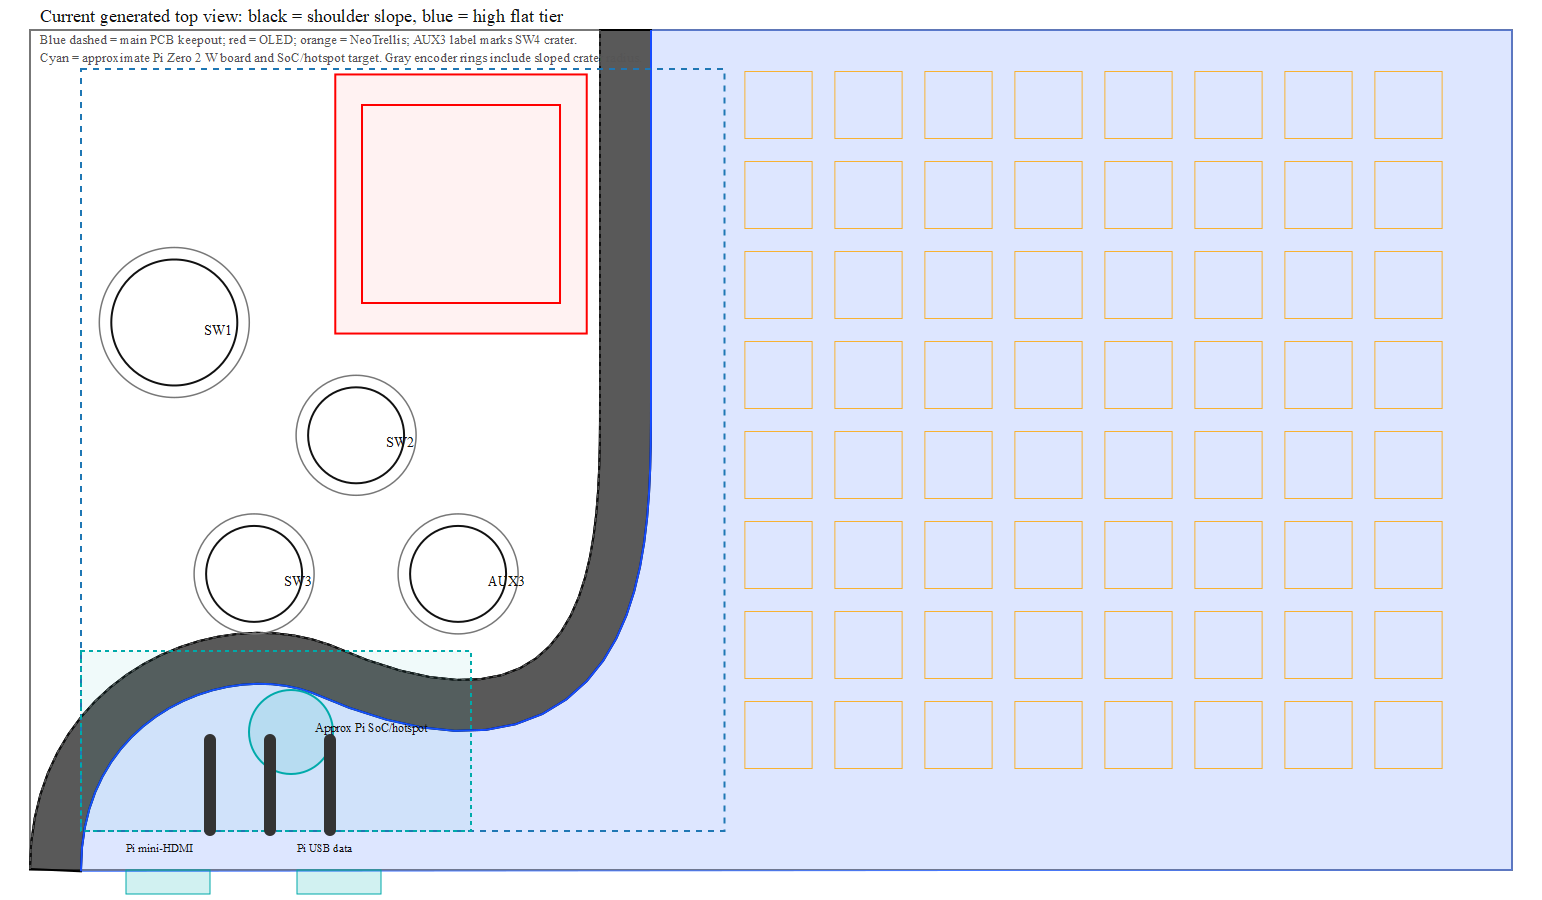
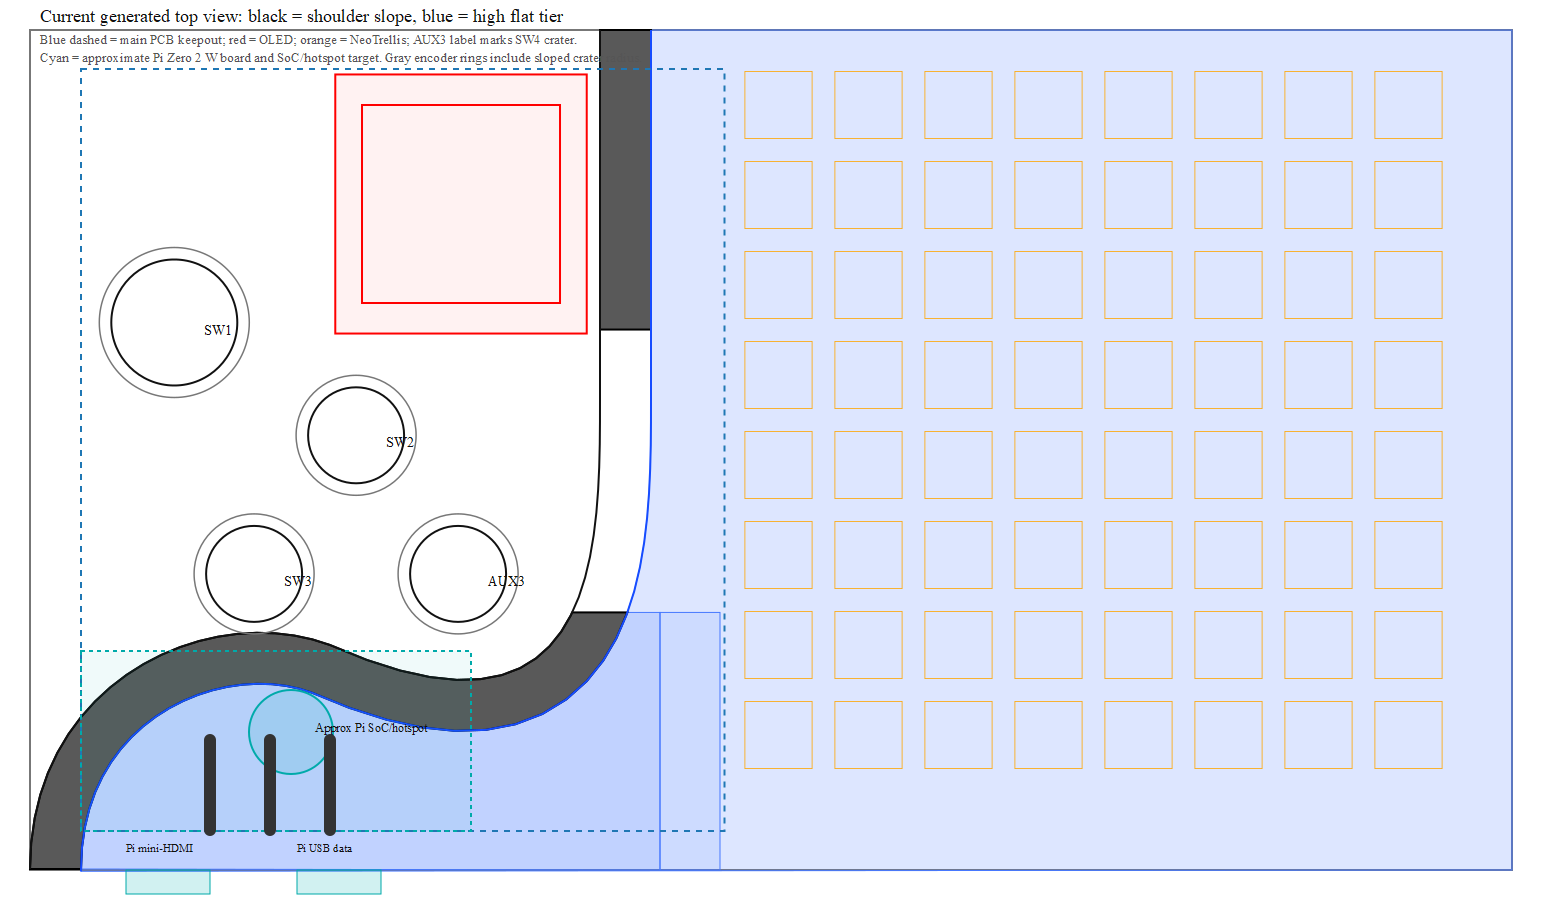
refine enclosure wave geometry

Changed region(s): [[0.0311, 0.3422, 0.4358, 0.9956]]

diff --git a/hardware/enclosure/generate_two_level_enclosure_cadquery.py b/hardware/enclosure/generate_two_level_enclosure_cadquery.py
@@ -11,9 +11,7 @@ from wave_guidance import (
     SOUTH_ROOF_LOW_WALL_BAND,
     SOUTH_SHOULDER_PLAN_WIDTH,
     load_guidance_slots,
-    smootherstep,
     south_edge_samples,
-    south_roof_outer_samples,
 )
 
 
@@ -28,11 +26,15 @@ HIGH_Z = 26.0
 UNDERSIDE_Z = 9.0
 HIGH_UNDERSIDE_Z = 23.0
 EXTENDED_SLOPE_RIGHT_X = 115.0
-SLOPE_CURVE_START_Y = 69.0
 NEOKEY_PANEL_Y_OFFSET = 2.0
 NEOKEY_CAP_RELIEF_BOTTOM_Z = 16.0
 NEOKEY_SEAT_BOTTOM_Z = UNDERSIDE_Z
 NEOKEY_SEAT_OVERLAP = 3.0
+LOWER_WAVE_HEIGHT_SCALE = 0.5
+LOWER_WAVE_HIGH_UNDERSIDE_Z = UNDERSIDE_Z + (HIGH_UNDERSIDE_Z - UNDERSIDE_Z) * LOWER_WAVE_HEIGHT_SCALE
+LOWER_WAVE_HIGH_Z = LOW_Z + (HIGH_Z - LOW_Z) * LOWER_WAVE_HEIGHT_SCALE
+LOWER_TO_TIER2_RAMP_START_X = 105.0
+LOWER_TO_TIER2_RAMP_END_X = 115.0
 
 def x_at_y(points: list[tuple[float, float]], y: float) -> float:
     sorted_points = sorted(points, key=lambda point: point[1])
@@ -46,40 +48,14 @@ def x_at_y(points: list[tuple[float, float]], y: float) -> float:
     return sorted_points[-1][0]
 
 
-def deck_boundary_x(y: float) -> float:
-    _, low = south_edge_samples()
-    return x_at_y(low, y)
-
-
-def original_deck_boundary_x(y: float) -> float:
-    vertical_x = 90.2
-    curve_start_y = 69.0
-    bottom_x = 50.0
-    if y >= curve_start_y:
-        return vertical_x
-    return bottom_x + (vertical_x - bottom_x) * smootherstep(y / curve_start_y)
-
-
-def shoulder_width_at_y(y: float) -> float:
-    return shoulder_right_x(y) - deck_boundary_x(y)
-
-
-def legacy_shoulder_width_at_y(y: float) -> float:
-    if y >= 69.0:
-        return 2.4
-    return 2.4 + 14.6 * (1.0 - smootherstep(y / 69.0))
-
-
-def shoulder_right_x(y: float) -> float:
-    high, _ = south_edge_samples()
-    return x_at_y(high, y)
-
-
-def original_shoulder_right_x(y: float) -> float:
-    legacy_right = original_deck_boundary_x(y) + legacy_shoulder_width_at_y(y)
-    if y >= SLOPE_CURVE_START_Y:
-        return EXTENDED_SLOPE_RIGHT_X
-    return legacy_right + (EXTENDED_SLOPE_RIGHT_X - legacy_right) * smootherstep(y / SLOPE_CURVE_START_Y)
+def first_y_at_x(points: list[tuple[float, float]], x: float) -> float:
+    sorted_points = sorted(points, key=lambda point: point[1])
+    for (x0, y0), (x1, y1) in zip(sorted_points, sorted_points[1:]):
+        if (x0 <= x <= x1) or (x1 <= x <= x0):
+            if x1 == x0:
+                return y1
+            return y0 + (y1 - y0) * ((x - x0) / (x1 - x0))
+    return sorted_points[-1][1]
 
 
 def rounded_plate(width: float, depth: float, radius: float, z0: float, thickness: float) -> cq.Workplane:
@@ -90,6 +66,26 @@ def rounded_plate(width: float, depth: float, radius: float, z0: float, thicknes
         .extrude(thickness)
         .translate((width / 2.0, depth / 2.0, z0))
     )
+
+
+def y_band_prism(width: float, y0: float, y1: float, margin: float, z_height: float) -> cq.Workplane:
+    points = [
+        (-margin, y0),
+        (-margin, y1),
+        (width + margin, y1),
+        (width + margin, y0),
+    ]
+    return cq.Workplane("XY").polyline(points).close().extrude(z_height).translate((0, 0, -1))
+
+
+def x_band_prism(x0: float, x1: float, depth: float, margin: float, z_height: float) -> cq.Workplane:
+    points = [
+        (x0, -margin),
+        (x0, depth + margin),
+        (x1, depth + margin),
+        (x1, -margin),
+    ]
+    return cq.Workplane("XY").polyline(points).close().extrude(z_height).translate((0, 0, -1))
 
 
 def right_region_prism(width: float, depth: float, margin: float, z_height: float) -> cq.Workplane:
@@ -112,13 +108,42 @@ def left_region_prism(width: float, depth: float, margin: float, z_height: float
     return cq.Workplane("XY").polyline(points).close().extrude(z_height).translate((0, 0, -1))
 
 
-def shoulder_loft(depth: float) -> cq.Workplane:
+def curve_pair_at_y(
+    low: list[tuple[float, float]], high: list[tuple[float, float]], y: float
+) -> tuple[tuple[float, float], tuple[float, float]]:
+    return (x_at_y(low, y), y), (x_at_y(high, y), y)
+
+
+def trimmed_curve_pairs(
+    low: list[tuple[float, float]], high: list[tuple[float, float]], y0: float, y1: float
+) -> list[tuple[tuple[float, float], tuple[float, float]]]:
+    pairs = []
+    if y0 <= low[-1][1] and y1 >= low[0][1]:
+        start_y = max(y0, low[0][1])
+        end_y = min(y1, low[-1][1])
+        pairs.append(curve_pair_at_y(low, high, start_y))
+        pairs.extend(
+            (low_point, high_point)
+            for low_point, high_point in zip(low, high)
+            if start_y < low_point[1] < end_y
+        )
+        pairs.append(curve_pair_at_y(low, high, end_y))
+    return pairs
+
+
+def shoulder_loft(y0: float, y1: float, height_scale: float = 1.0) -> cq.Workplane:
     high, low = south_edge_samples()
-    wires = [shoulder_profile_wire(low_point, high_point) for low_point, high_point in zip(low, high)]
+    curve_pairs = trimmed_curve_pairs(low, high, y0, y1)
+    wires = [
+        shoulder_profile_wire(low_point, high_point, height_scale)
+        for low_point, high_point in curve_pairs
+    ]
     return cq.Workplane("XY").add(cq.Solid.makeLoft(wires, ruled=True))
 
 
-def shoulder_profile_wire(low: tuple[float, float], high: tuple[float, float]) -> cq.Wire:
+def shoulder_profile_wire(
+    low: tuple[float, float], high: tuple[float, float], height_scale: float = 1.0
+) -> cq.Wire:
     low_x, low_y = low
     high_x, high_y = high
     top_points = []
@@ -129,17 +154,48 @@ def shoulder_profile_wire(low: tuple[float, float], high: tuple[float, float]) -
         eased = (1.0 - (1.0 - t) * (1.0 - t)) ** 0.5
         x = low_x + (high_x - low_x) * t
         y = low_y + (high_y - low_y) * t
-        z = LOW_Z + (HIGH_Z - LOW_Z) * eased
+        z = LOW_Z + (HIGH_Z - LOW_Z) * height_scale * eased
         top_points.append(cq.Vector(x, y, z))
         if t <= bottom_band_t:
             bottom_z = UNDERSIDE_Z
         else:
             bottom_t = (t - bottom_band_t) / (1.0 - bottom_band_t)
             bottom_eased = (1.0 - (1.0 - bottom_t) * (1.0 - bottom_t)) ** 0.5
-            bottom_z = UNDERSIDE_Z + (HIGH_UNDERSIDE_Z - UNDERSIDE_Z) * bottom_eased
+            bottom_z = (
+                UNDERSIDE_Z
+                + (HIGH_UNDERSIDE_Z - UNDERSIDE_Z) * height_scale * bottom_eased
+            )
         bottom_points.append(cq.Vector(x, y, bottom_z))
     points = [*top_points, *reversed(bottom_points), top_points[0]]
     return cq.Wire.makePolygon(points)
+
+
+def quarter_circle_ease(t: float) -> float:
+    t = max(0.0, min(1.0, t))
+    return 1.0 - (1.0 - t * t) ** 0.5
+
+
+def east_wave_ramp_loft(y0: float, y1: float) -> cq.Workplane:
+    wires = []
+    samples = 16
+    for index in range(samples + 1):
+        t = index / samples
+        eased = quarter_circle_ease(t)
+        top_z = LOWER_WAVE_HIGH_Z + (HIGH_Z - LOWER_WAVE_HIGH_Z) * eased
+        bottom_z = LOWER_WAVE_HIGH_UNDERSIDE_Z + (HIGH_UNDERSIDE_Z - LOWER_WAVE_HIGH_UNDERSIDE_Z) * eased
+        x = LOWER_TO_TIER2_RAMP_START_X + (LOWER_TO_TIER2_RAMP_END_X - LOWER_TO_TIER2_RAMP_START_X) * t
+        wires.append(
+            cq.Wire.makePolygon(
+                [
+                    cq.Vector(x, y0, top_z),
+                    cq.Vector(x, y1, top_z),
+                    cq.Vector(x, y1, bottom_z),
+                    cq.Vector(x, y0, bottom_z),
+                    cq.Vector(x, y0, top_z),
+                ]
+            )
+        )
+    return cq.Workplane("XY").add(cq.Solid.makeLoft(wires, ruled=True))
 
 
 def rect_cutter(x0: float, y0: float, x1: float, y1: float, radius: float) -> cq.Workplane:
@@ -164,6 +220,24 @@ def rect_prism(x0: float, y0: float, x1: float, y1: float, radius: float, z0: fl
     sketch = cq.Sketch().rect(width, depth).vertices().fillet(radius)
     prism = cq.Workplane("XY").placeSketch(sketch).extrude(z1 - z0)
     return prism.translate(((x0 + x1) / 2.0, (y0 + y1) / 2.0, z0))
+
+
+def west_rounded_rect_prism(
+    x0: float, y0: float, x1: float, y1: float, radius: float, z0: float, z1: float
+) -> cq.Workplane:
+    arc_offset = radius * (1.0 - 2.0**-0.5)
+    return (
+        cq.Workplane("XY")
+        .moveTo(x1, y0)
+        .lineTo(x1, y1)
+        .lineTo(x0 + radius, y1)
+        .threePointArc((x0 + arc_offset, y1 - arc_offset), (x0, y1 - radius))
+        .lineTo(x0, y0 + radius)
+        .threePointArc((x0 + arc_offset, y0 + arc_offset), (x0 + radius, y0))
+        .close()
+        .extrude(z1 - z0)
+        .translate((0, 0, z0))
+    )
 
 
 def circle_cutter(x: float, y: float, radius: float) -> cq.Workplane:
@@ -246,7 +320,7 @@ def neokey_seat_bounds(params: dict, key_centers: list[tuple[float, float]]) -> 
 
 def neokey_support_block(params: dict, key_centers: list[tuple[float, float]]) -> cq.Workplane:
     seat_x0, seat_y0, seat_x1, seat_y1 = neokey_seat_bounds(params, key_centers)
-    return rect_prism(
+    return west_rounded_rect_prism(
         seat_x0,
         seat_y0,
         seat_x1,
@@ -341,16 +415,48 @@ def build_model(params: dict) -> cq.Workplane:
     width, depth = params["case_size_v21"]
     radius = params["corner_r"]
     top_thick = params["top_thick"]
+    neokey_seat_x0, _, _, neokey_seat_top_y = neokey_seat_bounds(
+        params, neokey_key_centers(params)
+    )
+    _, low_edge = south_edge_samples()
+    lower_wave_top_y = first_y_at_x(low_edge, neokey_seat_x0)
 
     footprint = rounded_plate(width, depth, radius, 0, 40)
     low_plate = rounded_plate(width, depth, radius, UNDERSIDE_Z, top_thick).intersect(
         left_region_prism(width, depth, 5, 40)
     )
-    high_plate = rounded_plate(width, depth, radius, HIGH_UNDERSIDE_Z, top_thick).intersect(
-        right_region_prism(width, depth, 5, 40)
+    right_region = right_region_prism(width, depth, 5, 40)
+    wave_strip_region = right_region.intersect(
+        x_band_prism(-5.0, EXTENDED_SLOPE_RIGHT_X, depth, 5, 40)
     )
-    flat_faceplate = add_cutouts(low_plate.union(high_plate).clean(), params).clean()
-    shoulder = shoulder_loft(depth).intersect(footprint).clean()
+    high_plate = rounded_plate(width, depth, radius, HIGH_UNDERSIDE_Z, top_thick).intersect(
+        right_region
+    )
+    high_plate = high_plate.cut(
+        wave_strip_region.intersect(y_band_prism(width, -5.0, neokey_seat_top_y, 5, 40))
+    )
+    ramp_region = x_band_prism(
+        LOWER_TO_TIER2_RAMP_START_X, LOWER_TO_TIER2_RAMP_END_X, depth, 5, 40
+    ).intersect(y_band_prism(width, -5.0, lower_wave_top_y, 5, 40))
+    high_plate = high_plate.cut(ramp_region)
+    lower_wave_plate = rounded_plate(
+        width, depth, radius, LOWER_WAVE_HIGH_UNDERSIDE_Z, top_thick
+    ).intersect(
+        wave_strip_region.intersect(y_band_prism(width, -5.0, lower_wave_top_y, 5, 40))
+    )
+    lower_wave_plate = lower_wave_plate.cut(ramp_region)
+    wave_flat_ramp = east_wave_ramp_loft(0.0, lower_wave_top_y)
+    flat_faceplate = add_cutouts(
+        low_plate.union(lower_wave_plate).union(wave_flat_ramp).union(high_plate).clean(),
+        params,
+    ).clean()
+    upper_shoulder = shoulder_loft(neokey_seat_top_y, depth).intersect(footprint).clean()
+    lower_wave = (
+        shoulder_loft(0.0, lower_wave_top_y, LOWER_WAVE_HEIGHT_SCALE)
+        .intersect(footprint)
+        .clean()
+    )
+    shoulder = upper_shoulder.union(lower_wave).clean()
     model = flat_faceplate.union(shoulder).clean()
     model = add_neokey_cutouts(model, params).clean()
     return add_guidance_slots(model).clean()

diff --git a/hardware/enclosure/generate_wave_review_view.py b/hardware/enclosure/generate_wave_review_view.py
@@ -61,9 +61,41 @@ def main() -> None:
     image_h = case_h * SCALE + 2.0 * MARGIN
 
     high, low = model.south_edge_samples()
-    outer = model.south_roof_outer_samples()
-    wave_points = high + list(reversed(outer))
-    wave_poly = " ".join(f"{svg_x(x):.2f},{svg_y(y, case_h):.2f}" for x, y in wave_points)
+    key_centers = model.neokey_key_centers(params)
+    neokey_seat_x0, _, _, neokey_seat_top_y = model.neokey_seat_bounds(params, key_centers)
+    lower_wave_top_y = model.first_y_at_x(low, neokey_seat_x0)
+
+    def wave_polygon(y0: float, y1: float) -> str:
+        pairs = model.trimmed_curve_pairs(low, high, y0, y1)
+        high_points = [high_point for _, high_point in pairs]
+        low_points = [low_point for low_point, _ in pairs]
+        points = high_points + list(reversed(low_points))
+        return " ".join(f"{svg_x(x):.2f},{svg_y(y, case_h):.2f}" for x, y in points)
+
+    def wave_flat_polygon(y0: float, y1: float, right_x: float = model.EXTENDED_SLOPE_RIGHT_X) -> str:
+        pairs = model.trimmed_curve_pairs(low, high, y0, y1)
+        high_points = [high_point for _, high_point in pairs]
+        points = [
+            (right_x, y0),
+            (right_x, y1),
+            *reversed(high_points),
+        ]
+        return " ".join(f"{svg_x(x):.2f},{svg_y(y, case_h):.2f}" for x, y in points)
+
+    def polygon(points: list[tuple[float, float]]) -> str:
+        return " ".join(f"{svg_x(x):.2f},{svg_y(y, case_h):.2f}" for x, y in points)
+
+    upper_wave_poly = wave_polygon(neokey_seat_top_y, case_h)
+    lower_wave_poly = wave_polygon(0.0, lower_wave_top_y)
+    lower_wave_flat_poly = wave_flat_polygon(0.0, lower_wave_top_y, model.LOWER_TO_TIER2_RAMP_START_X)
+    ramp_poly = polygon(
+        [
+            (model.LOWER_TO_TIER2_RAMP_START_X, 0.0),
+            (model.LOWER_TO_TIER2_RAMP_END_X, 0.0),
+            (model.LOWER_TO_TIER2_RAMP_END_X, lower_wave_top_y),
+            (model.LOWER_TO_TIER2_RAMP_START_X, lower_wave_top_y),
+        ]
+    )
     high_region = [(case_w, 0.0), (case_w, case_h), (model.EXTENDED_SLOPE_RIGHT_X, case_h), *reversed(high), (case_w, 0.0)]
     high_poly = " ".join(f"{svg_x(x):.2f},{svg_y(y, case_h):.2f}" for x, y in high_region)
 
@@ -72,10 +104,12 @@ def main() -> None:
         '<rect width="100%" height="100%" fill="white"/>',
         rect(case_h, 0, 0, case_w, case_h, "#777", width=2.0),
         f'<polygon points="{high_poly}" fill="rgba(70,120,255,0.18)" stroke="#4678ff" stroke-width="1"/>',
-        f'<polygon points="{wave_poly}" fill="rgba(0,0,0,0.65)" stroke="black" stroke-width="2"/>',
+        f'<polygon points="{ramp_poly}" fill="rgba(70,120,255,0.10)" stroke="#4678ff" stroke-width="1"/>',
+        f'<polygon points="{lower_wave_flat_poly}" fill="rgba(70,120,255,0.18)" stroke="#4678ff" stroke-width="1"/>',
+        f'<polygon points="{upper_wave_poly}" fill="rgba(0,0,0,0.65)" stroke="black" stroke-width="2"/>',
+        f'<polygon points="{lower_wave_poly}" fill="rgba(0,0,0,0.65)" stroke="black" stroke-width="2"/>',
         '<polyline points="' + " ".join(f"{svg_x(x):.2f},{svg_y(y, case_h):.2f}" for x, y in high) + '" fill="none" stroke="#164cff" stroke-width="2"/>',
         '<polyline points="' + " ".join(f"{svg_x(x):.2f},{svg_y(y, case_h):.2f}" for x, y in low) + '" fill="none" stroke="#111" stroke-width="2"/>',
-        '<polyline points="' + " ".join(f"{svg_x(x):.2f},{svg_y(y, case_h):.2f}" for x, y in outer) + '" fill="none" stroke="#555" stroke-width="1.5" stroke-dasharray="4 3"/>',
         rect(case_h, 8.5, 6.5, 8.5 + 107.25, 6.5 + 127.0, "#1f77b4", width=2.0, dash='stroke-dasharray="6 3"'),
         rect(case_h, PI_BOARD_X0, PI_BOARD_Y0, PI_BOARD_X0 + PI_BOARD_W, PI_BOARD_Y0 + PI_BOARD_H, "#0aa", "rgba(0,180,180,0.06)", 2.0, dash='stroke-dasharray="4 3"'),
         circle(case_h, PI_HOTSPOT_X, PI_HOTSPOT_Y, PI_HOTSPOT_R, "#0aa", "rgba(0,180,180,0.12)", 2.0),